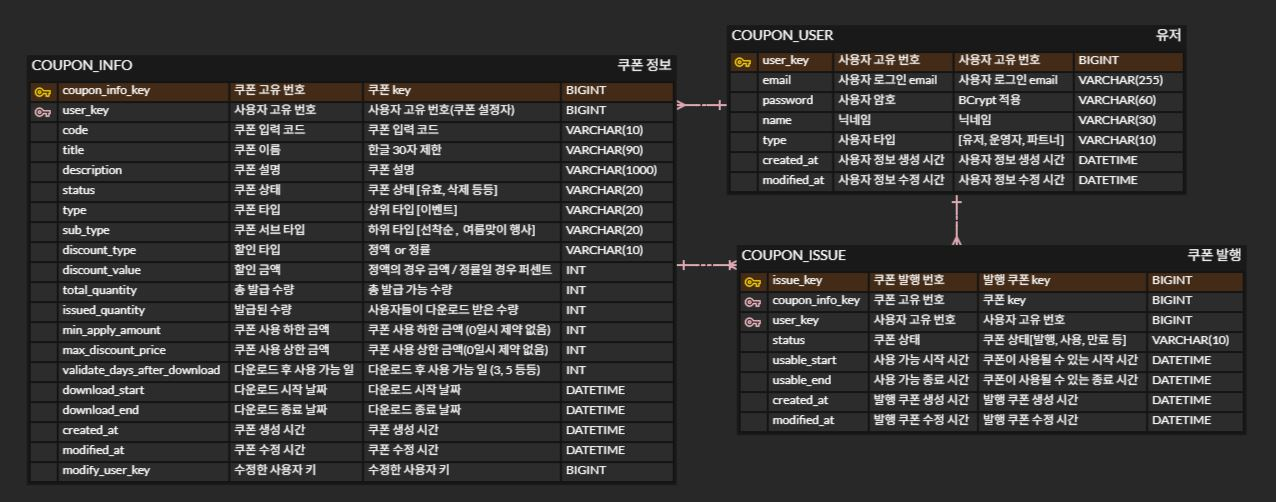
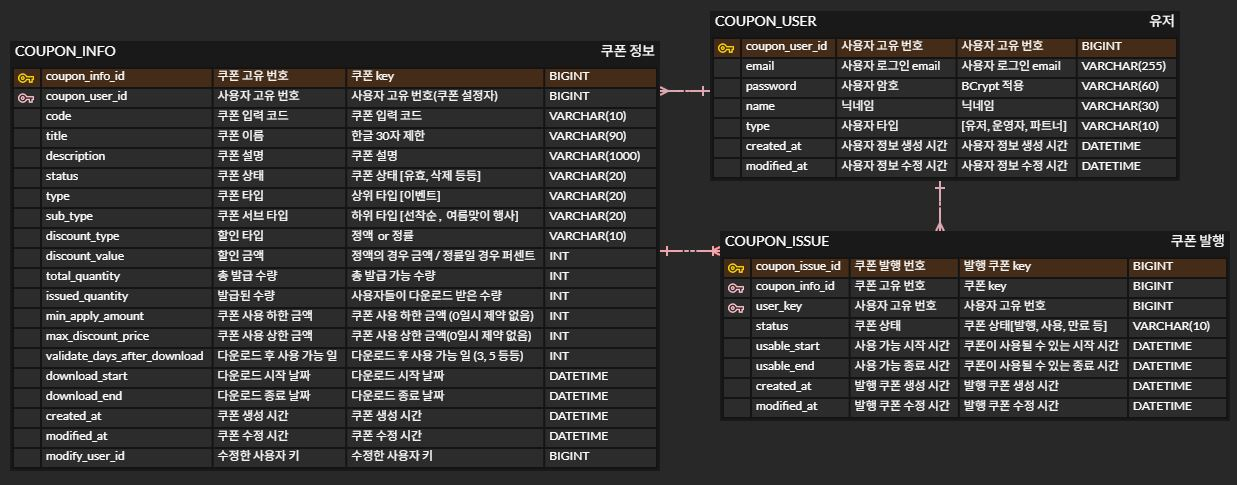
refactor, docs: 쿠폰/유저 컨트롤러,엔티티 구조 수정 및 ERD,API 명세 수정

Changed region(s): [[0.0, 0.0309, 1.0, 0.9588]]

diff --git a/src/main/java/com/rtc/app/coupon/entity/CouponInfo.java b/src/main/java/com/rtc/app/coupon/entity/CouponInfo.java
@@ -20,11 +20,11 @@ public class CouponInfo extends BaseTimeEntity {
 
     @Id
     @GeneratedValue(strategy = GenerationType.IDENTITY)
-    @Column(name = "coupon_info_key")
-    private Long couponKey;
+    @Column(name = "coupon_info_id")
+    private Long id;
 
     @ManyToOne(fetch = FetchType.LAZY)
-    @JoinColumn(name = "user_key", updatable = false, nullable = false)
+    @JoinColumn(name = "coupon_user_id", updatable = false, nullable = false)
     private User createUser;
 
     /**
@@ -88,7 +88,6 @@ public class CouponInfo extends BaseTimeEntity {
     private LocalDateTime downloadEnd;
 
     @ManyToOne(fetch = FetchType.LAZY)
-    @JoinColumn(name = "modify_user_key")
+    @JoinColumn(name = "modify_user_id")
     private User modifyUser;
 }
-

diff --git a/src/main/java/com/rtc/app/coupon/entity/CouponIssue.java b/src/main/java/com/rtc/app/coupon/entity/CouponIssue.java
@@ -18,15 +18,15 @@ public class CouponIssue extends BaseTimeEntity {
 
     @Id
     @GeneratedValue(strategy = GenerationType.IDENTITY)
-    @Column(name = "issue_key")
-    private Long issueKey;
+    @Column(name = "coupon_issue_id")
+    private Long id;
 
     @ManyToOne(fetch = FetchType.LAZY)
-    @JoinColumn(name = "coupon_info_key", nullable = false)
+    @JoinColumn(name = "coupon_info_id", nullable = false)
     private CouponInfo couponInfo;
 
     @ManyToOne(fetch = FetchType.LAZY)
-    @JoinColumn(name = "user_key", nullable = false)
+    @JoinColumn(name = "coupon_user_id", nullable = false)
     private User user;
 
     @Enumerated(EnumType.STRING)
@@ -45,4 +45,3 @@ public class CouponIssue extends BaseTimeEntity {
     @Column(name = "usable_end", nullable = false)
     private LocalDateTime usableEnd;
 }
-

diff --git a/src/main/java/com/rtc/app/account/entity/User.java b/src/main/java/com/rtc/app/account/entity/User.java
@@ -15,8 +15,8 @@ public class User extends BaseTimeEntity {
 
     @Id
     @GeneratedValue(strategy = GenerationType.IDENTITY)
-    @Column(name = "user_key", nullable = false, updatable = false)
-    private Long userKey;
+    @Column(name = "coupon_user_id", nullable = false, updatable = false)
+    private Long id;
 
     @Column(name = "email", nullable = false, unique = true)
     private String email;

diff --git a/src/main/java/com/rtc/app/coupon/controller/AdminCouponController.java b/src/main/java/com/rtc/app/coupon/controller/AdminCouponController.java
@@ -7,7 +7,7 @@ import org.springframework.web.bind.annotation.RestController;
 
 @RequiredArgsConstructor
 @RestController
-@RequestMapping("/admin/coupons")
+@RequestMapping("/coupons")
 public class AdminCouponController {
     private final AdminCouponService adminCouponService;
 

diff --git a/src/main/java/com/rtc/app/coupon/controller/UserCouponController.java b/src/main/java/com/rtc/app/coupon/controller/UserCouponController.java
@@ -7,7 +7,7 @@ import org.springframework.web.bind.annotation.RestController;
 
 @RequiredArgsConstructor
 @RestController
-@RequestMapping("/user/coupons")
+@RequestMapping("/coupons")
 public class UserCouponController {
     private final UserCouponService userCouponService;
 

diff --git a/README.md b/README.md
@@ -56,26 +56,34 @@ ERD 주소
         - 추후에 별도의 분리된 테이블이 필요할 수 있으나, 현재는 통합해서 관리한다.
 
 ### API
-운영자 (Admin) API
+#### 인증(운영자/사용자) API
 
-메서드	| URI	                       | 설명 |
--------|----------------------------|------|
-POST | /admin/auth/login          | 로그인 |
-POST | /admin/auth/logout         | 로그아웃 | 
-POST   | /admin/coupons	            | 쿠폰 생성 (등록) |
-PATCH    | /admin/coupons             | 쿠폰 수정 |
-PATCH	| /admin/coupons/{couponId}	 | 쿠폰 삭제(삭제 상태로 변경) |
-GET | /admin/coupons             | 쿠폰 리스트 조회 |
-GET | /admin/coupons/{couponId}  | 쿠폰 상세 조회 |
+| 메서드  | URI          | 설명           |
+| ---- | ------------ |--------------|
+| POST | /auth/login  | 사용자/관리자 로그인  |
+| POST | /auth/logout | 사용자/관리자 로그아웃 |
+| POST | /auth/signup | 사용자 회원가입     |
 
-사용자 (Member) API
+---------------------------------
 
-메서드	| URI                 | 설명|
--------|---------------------|----|
-POST | /user/auth/sign-up  | 회원가입 |
-POST | /user/auth/login    | 로그인 |
-POST | /user/auth/logout   | 로그아웃 |
-POST | /user/coupons       | 쿠폰 발급 요청(선착순) |
-POST | /user/coupons/codes | 쿠폰 발급(코드 입력) |
-POST | /user/coupons/use   | 쿠폰 사용 |
-GET  | /user/coupons       | 쿠폰 리스트 조회(내 쿠폰) |
+#### 쿠폰(운영자/사용자) API
+
+##### 운영자 API
+
+| 메서드    | URI               | 설명             |
+| ------ | ----------------- |----------------|
+| POST   | /coupons          | 쿠폰 생성 (등록)     |
+| PATCH  | /coupons/{couponId} | 특정 쿠폰 수정       |
+| DELETE | /coupons/{couponId} | 특정 쿠폰 삭제 |
+| GET    | /coupons          | 쿠폰 리스트 조회(관리자용) |
+| GET    | /coupons/{couponId} | 특정 쿠폰 상세 조회    |
+
+
+##### 사용자 API
+
+| 메서드  | URI                        | 설명             |
+| ---- | -------------------------- |----------------|
+| POST | /coupons/{couponId}        | 쿠폰 발급 요청 (선착순) |
+| POST | /coupons/code              | 쿠폰 발급 요청 (코드 입력) |
+| POST | /coupons/{couponId}/redeem | 특정 쿠폰 사용       |
+| GET  | /coupons/me                | 내 쿠폰 리스트 조회    |